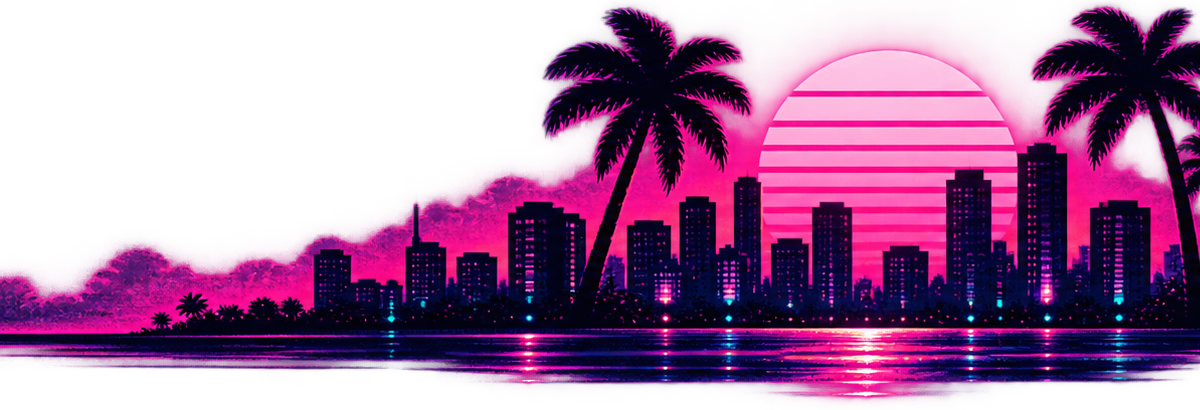
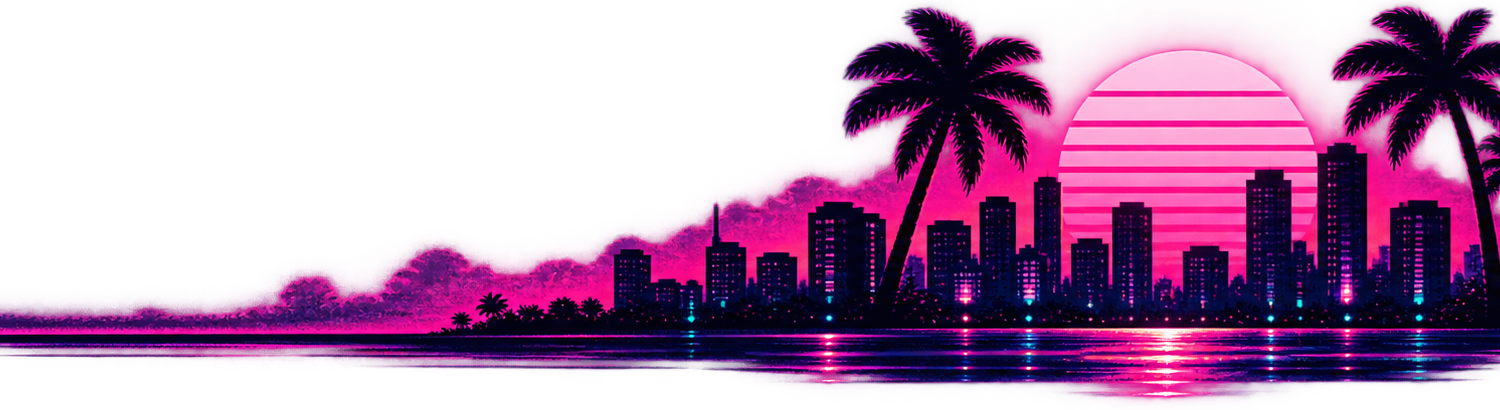
Reframed VC top-bar skyline on the sun (wider sun-framed crop, larger presence)

diff --git a/tools/theme_tests.js b/tools/theme_tests.js
@@ -146,7 +146,7 @@ ok(SW.isThemeAsset('/fonts/SignPainter/0-255.pbf'), 'isThemeAsset: SignPainter g
 ok(SW.isThemeAsset('/fonts/chalet-london.woff2'), 'isThemeAsset: Chalet woff2');
 ok(SW.isThemeAsset('/fonts/rdr-lino.woff2'), 'isThemeAsset: RDR Lino woff2');
 ok(!SW.isThemeAsset('/fonts/pricedown-bl.woff'), 'VC UI font stays shell, not theme-asset');
-ok(swSrc.includes("ws-shell-v51"), 'SW shell cache v50');
+ok(swSrc.includes("ws-shell-v52"), 'SW shell cache v52');
 ok(swSrc.includes("ws-theme-v14"), 'SW theme cache v14');
 
 /* ---------- per-theme typography (game-authentic fonts) ---------- */
@@ -373,7 +373,7 @@ ok(indexSrc.includes('class="dash-palm"'), 'top bar has a neon palm beside the w
 ok(indexSrc.includes('dashboard/skyline.png'), 'VC top bar uses the illustrated skyline art');
 /* ---------- VC asset-pack polish: authored chrome ---------- */
 const sky = pngSize(path.join(REPO, 'assets/themes/vice-city/dashboard/skyline.png'));
-ok(sky && sky.w >= 1500 && sky.h >= 500, 'VC skyline art: dense authored strip (asset pack #1)');
+ok(sky && sky.w >= 1400 && sky.h >= 400, 'VC skyline art: dense authored strip (asset pack #1, sun-framed crop)');
 const mfr = pngSize(path.join(REPO, 'assets/themes/vice-city/dashboard/maneuver-frame.png'));
 ok(mfr && mfr.w === 1650 && mfr.h === 565, 'VC maneuver HUD frame present at authored size (asset pack #3)');
 ok(fs.existsSync(path.join(REPO, 'themes/vice-city/dashboard/bottombar.jpg')),
